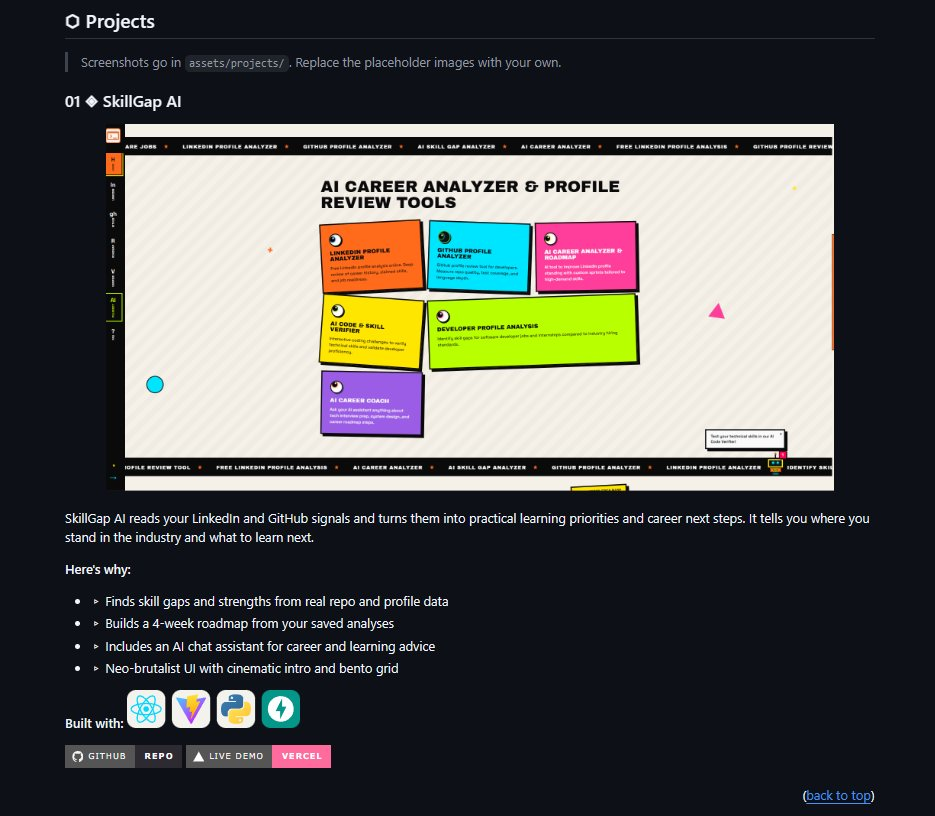
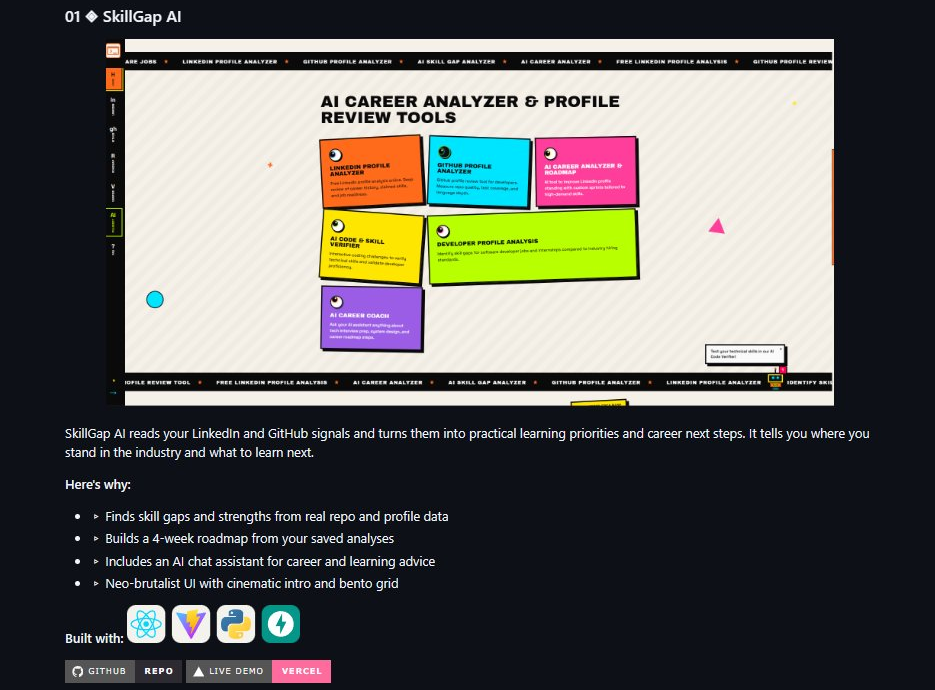
docs: remove all emojis, crop placeholder text from screenshot, and clean footer

diff --git a/README.md b/README.md
@@ -1,6 +1,6 @@
 <div align="center">
 
-# ⚡ SkillPulse AI (SkillGap AI)
+# SkillPulse AI (SkillGap AI)
 ### *Next-Generation AI Career Gap Intelligence & Profile Review Suite*
 
 [![Live Deployment](https://img.shields.io/badge/Live%20Demo-skillplusai.vercel.app-FF6B1A?style=for-the-badge&logo=vercel&logoColor=white)](https://skillplusai.vercel.app/)
@@ -18,7 +18,7 @@
 
 <!-- Centered Live Link Directly Below Screenshot -->
 <p align="center">
-  🌐 <b>Live Application:</b> <a href="https://skillplusai.vercel.app/" target="_blank"><b>https://skillplusai.vercel.app/</b></a> 🚀
+  <b>Live Application:</b> <a href="https://skillplusai.vercel.app/" target="_blank"><b>https://skillplusai.vercel.app/</b></a>
 </p>
 
 <p align="center">
@@ -33,42 +33,42 @@
 
 </div>
 
-## 📌 Overview
+## Overview
 
 **SkillPulse AI** (formerly SkillGap AI) is an intelligent, full-stack career platform designed for software engineers, tech students, and developers. It cross-examines your official **LinkedIn Profile PDF** against your public **GitHub code repositories** to identify critical competency gaps, benchmark engineering best practices, generate adaptive milestone sprint roadmaps, and provide a context-aware AI mentor (*PulseBot*).
 
-> **✨ 100% Free Forever • Zero Sign-In Required • No Credit Card • In-Session Privacy First**
+> **100% Free Forever • Zero Sign-In Required • No Credit Card • In-Session Privacy First**
 
 ---
 
-## 🌟 Key Features
+## Key Features
 
-### 1. 📄 Free LinkedIn Profile & PDF Dossier Analyzer
-- **Instant PDF Extraction**: Upload your official LinkedIn resume PDF exported directly via LinkedIn (**More → Save to PDF**).
+### 1. Free LinkedIn Profile & PDF Dossier Analyzer
+- **Instant PDF Extraction**: Upload your official LinkedIn resume PDF exported directly via LinkedIn (**More -> Save to PDF**).
 - **Competency Auditing**: Evaluates claimed experience, detected tech skills, and highlights missing industry qualifications.
 - **ATS Readiness Scoring**: Real-time evaluation against current engineering hiring bars.
 
-### 2. 🐙 Deep GitHub Profile & Code Review Tool
+### 2. Deep GitHub Profile & Code Review Tool
 - **Real-Time GitHub REST Integration**: Enter any public GitHub username (or profile link) with zero authentication barriers.
 - **Byte-Weighted Language Signals**: Accurate repository code distribution, commit velocity, and consistency metrics.
 - **Engineering Hygiene Checks**: Identifies missing test coverage, CI/CD automation pipelines, open-source engagement, and documentation depth.
 
-### 3. 🗺 Adaptive AI Career Roadmap & Sprint Planner
+### 3. Adaptive AI Career Roadmap & Sprint Planner
 - **Synthesized Profile Intelligence**: Combines real signals from both your LinkedIn resume and GitHub audit.
 - **Stack-Specific Calibration**: Adapts directly to your primary programming languages (Python, TypeScript, Go, Java, Rust).
 - **Flexible Milestone Sprints**: Generates structured 3 to 7-week projects with concrete system architecture blueprints, test frameworks, and shippable deliverables.
 
-### 4. 🧪 Interactive AI Code & Skill Verifier
+### 4. Interactive AI Code & Skill Verifier
 - **Hands-On Coding Assessments**: Timed, multi-language technical challenges calibrated to the languages detected in your GitHub profile.
 - **Algorithmic Accuracy & Edge Cases**: Instant automated grading, syntax validation, and detailed question-by-question reviews.
 
-### 5. 🤖 PulseBot — Autonomous AI Career Coach
+### 5. PulseBot — Autonomous AI Career Coach
 - **Roving Career Mascot**: Companion assistant powered by high-speed inference (Groq / Llama 3.3 70B).
 - **Full Context Memory**: Primed with your verified profile strengths, gaps, and roadmap milestones to answer queries about tech interview prep, system design, and resume optimization.
 
 ---
 
-## 🛠 Tech Stack & Architecture
+## Tech Stack & Architecture
 
 | Layer | Technologies |
 | :--- | :--- |
@@ -80,7 +80,7 @@
 
 ---
 
-## 📁 Repository Structure
+## Repository Structure
 
 ```
 Skill-Gap-AI/
@@ -118,7 +118,7 @@ Skill-Gap-AI/
 
 ---
 
-## 🚀 Getting Started Locally
+## Getting Started Locally
 
 ### Prerequisites
 - **Node.js** (v18 or higher)
@@ -158,7 +158,7 @@ npm run dev
 
 ---
 
-### ⚡ One-Click Startup (Windows)
+### One-Click Startup (Windows)
 You can launch both the backend and frontend simultaneously with a single command:
 ```cmd
 run.bat
@@ -166,7 +166,7 @@ run.bat
 
 ---
 
-## 🛡 Privacy & Guarantees
+## Privacy & Guarantees
 
 - **No Sign-In Required**: Start auditing LinkedIn dossiers or GitHub repos instantly without registering an account or entering an email.
 - **Zero Data Retention**: Uploaded profile PDFs are processed entirely in memory/in-session and never stored permanently or sold to third-party recruiters.
@@ -175,8 +175,6 @@ run.bat
 ---
 
 <div align="center">
-
-Made with ❤ by [Vidhitam Chakole](https://github.com/Vidhitam-chakole)
 
 **[Visit SkillPulse AI Live](https://skillplusai.vercel.app/)**
 
